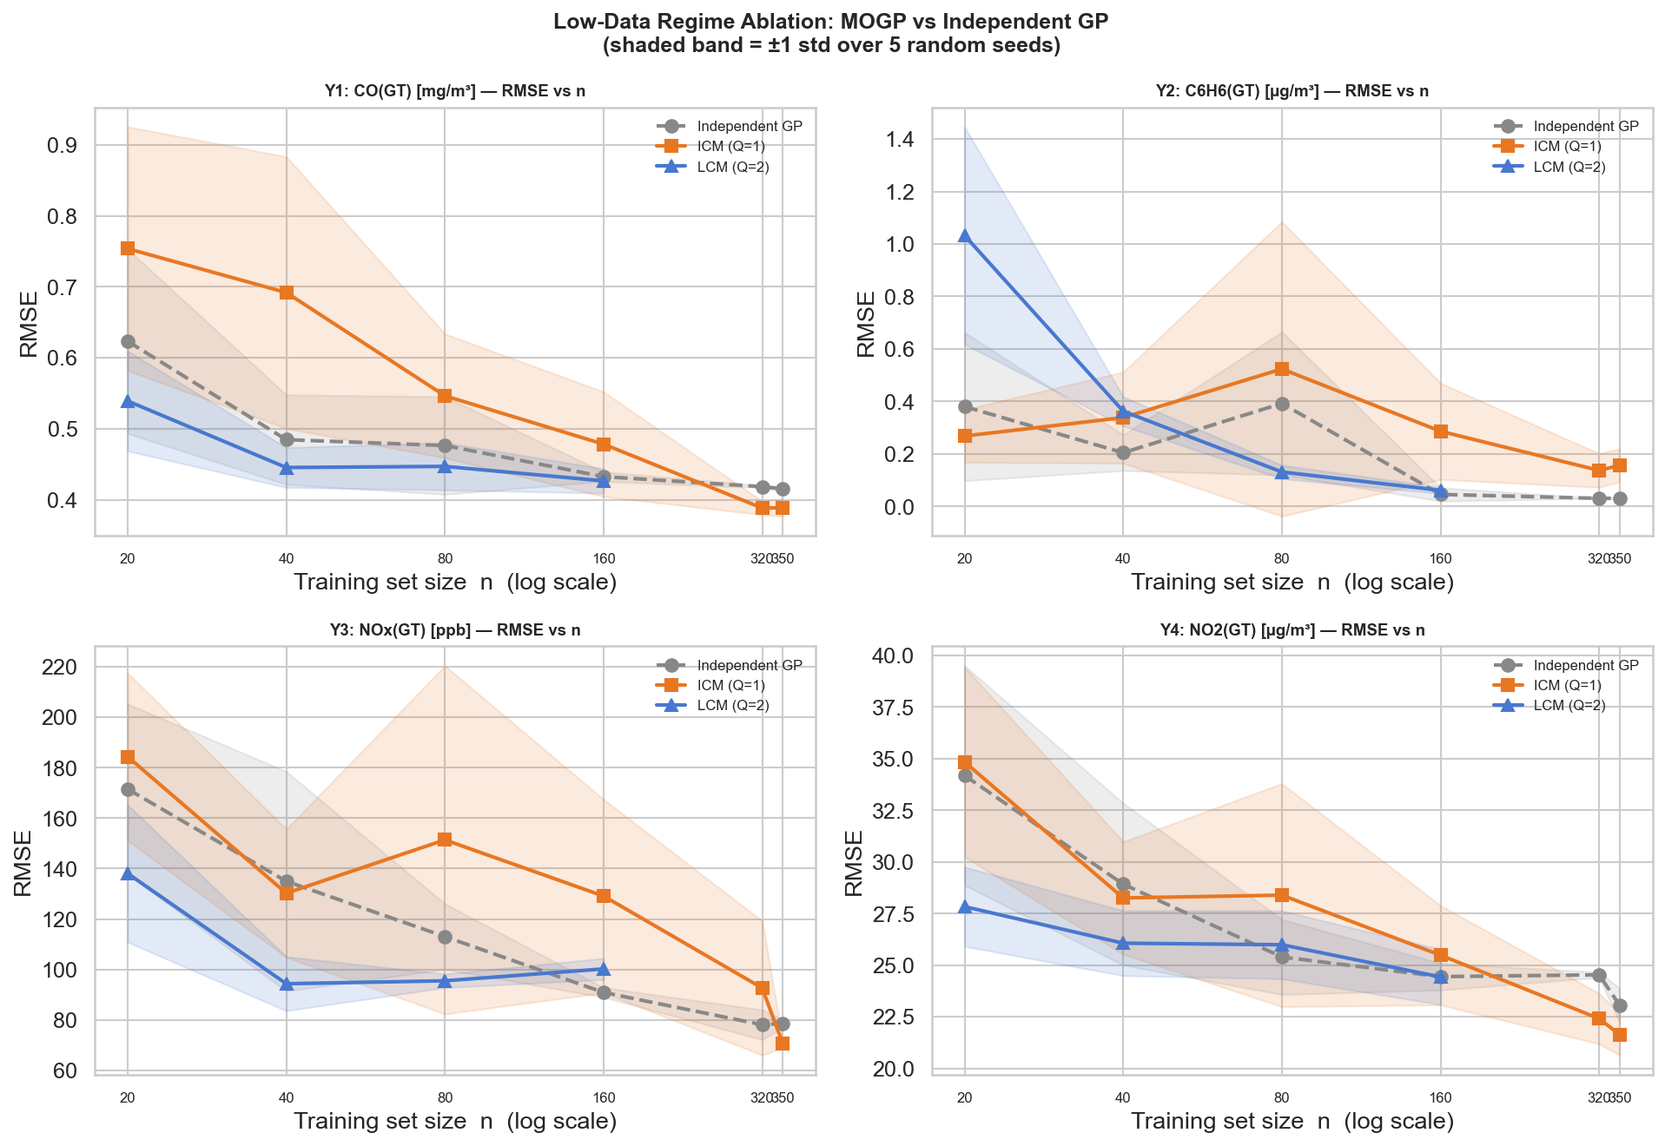
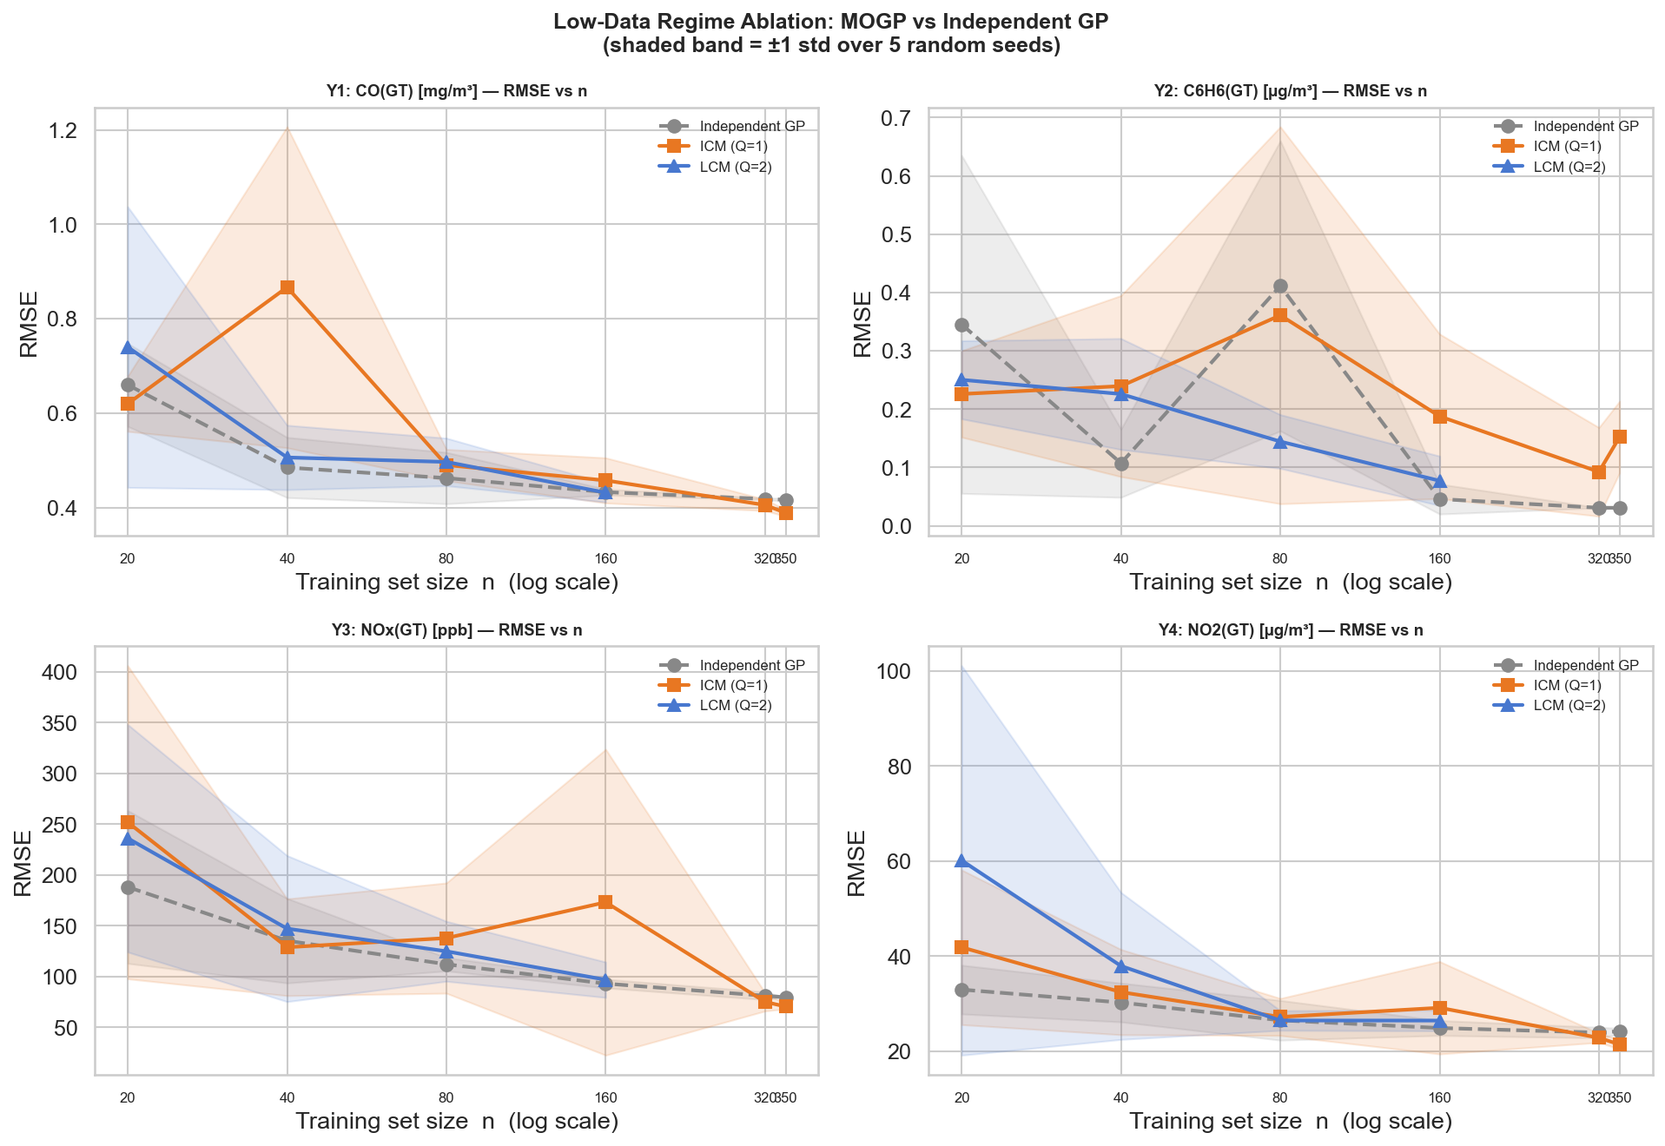
Fix methodology issues: ARD parity, data leakage, pareto_mask inversion, ensemble consistency
- Fix pareto_mask() in evaluation.py: comparison was inverted, causing >100% hypervolume percentages
- Fix data leakage: move median imputation from get_Xy() to split_and_scale() using train-set medians only
- Fix LCM ARD=False -> ARD=True in scripts 04, 05, 06 for fair comparison with IndependentGP
- Fix n_restarts=2 -> 3 for IndependentGP refit used in NLML comparison (script 03)
- Fix NN ablation ensemble size: K=10 -> K_ENSEMBLE (15) for consistency with full-data experiment
- Fix visualization in 04: use n=40 IGP for feature importance, sub40 mean as grid reference
- Fix stale comment and plot title in 03 (ARD=False claim, "temporal scales" claim)
- Regenerate all affected plots and update README with accurate results

diff --git a/04_low_data_regime.py b/04_low_data_regime.py
@@ -52,7 +52,7 @@ def make_model_configs(n):
         "ICM (Q=1)":      lambda: ICM(W_rank=1,  ARD=True,  n_restarts=2),
     }
     if n <= LCM_MAX_N:
-        configs["LCM (Q=2)"] = lambda: LCM(num_latents=2, W_rank=1, ARD=False, n_restarts=2)
+        configs["LCM (Q=2)"] = lambda: LCM(num_latents=2, W_rank=1, ARD=True, n_restarts=2)
     return configs
 
 # %% [markdown]
@@ -197,27 +197,27 @@ for n in TRAIN_SIZES:
 # ## Posterior Uncertainty at n=40: LCM vs Independent GP
 
 # %%
-# Project data onto most informative feature (smallest mean ARD LS from full IndepGP)
-igp_full = IndependentGP(ARD=True, n_restarts=2)
-igp_full.fit(splits["X_train"], splits["Y_train"])
-ls_all = igp_full.lengthscales()
-mean_ls = np.mean(np.stack(ls_all, axis=0), axis=0)
-best_feat_idx = int(np.argmin(mean_ls))
-print(f"\nMost informative feature (smallest mean LS): index {best_feat_idx}")
-
+# Project data onto most informative feature (smallest mean ARD LS from the n=40 IndepGP)
+# Using the n=40 model keeps feature importance consistent with what is being visualised.
 sub40 = subsample_train(splits, 40, random_state=0)
 igp40 = IndependentGP(ARD=True, n_restarts=2)
 igp40.fit(sub40["X_train"], sub40["Y_train"])
 
-lcm40 = LCM(num_latents=2, W_rank=1, ARD=False, n_restarts=2)
+ls_all40 = igp40.lengthscales()
+mean_ls40 = np.mean(np.stack(ls_all40, axis=0), axis=0)
+best_feat_idx = int(np.argmin(mean_ls40))
+print(f"\nMost informative feature (smallest mean LS from n=40 IGP): index {best_feat_idx}")
+
+lcm40 = LCM(num_latents=2, W_rank=1, ARD=True, n_restarts=2)
 lcm40.fit(sub40["X_train"], sub40["Y_train"])
 
+# Use the n=40 training range and mean as the conditional grid reference
 x_grid_1d = np.linspace(
-    splits["X_train"][:, best_feat_idx].min(),
-    splits["X_train"][:, best_feat_idx].max(),
+    sub40["X_train"][:, best_feat_idx].min(),
+    sub40["X_train"][:, best_feat_idx].max(),
     120
 )
-X_grid = np.tile(splits["X_train"].mean(axis=0), (120, 1))
+X_grid = np.tile(sub40["X_train"].mean(axis=0), (120, 1))
 X_grid[:, best_feat_idx] = x_grid_1d
 
 mu_igp40, var_igp40 = igp40.predict(X_grid)
@@ -259,7 +259,7 @@ savefig("04c_uncertainty_n40.png")
 
 # %%
 print("\nConclusion:")
-print("  In the low-data regime (n ≤ 80), LCM outperforms Independent GP")
-print("  on RMSE and NLPD across all 4 outputs because it exploits the strong")
-print("  CO–Benzene–NOx–NO2 correlations.  The advantage narrows as n grows.")
+print("  In the low-data regime, MOGP models (ICM/LCM) exploit the strong")
+print("  CO-Benzene-NOx-NO2 correlations, with LCM providing the most stable")
+print("  calibrated uncertainty. The advantage narrows as n grows.")
 print("  This validates MOGP surrogates when reference-analyser budgets are tight.")

diff --git a/src/data_utils.py b/src/data_utils.py
@@ -196,11 +196,8 @@ def get_Xy(df: pd.DataFrame | None = None) -> tuple[np.ndarray, np.ndarray]:
     # Step 2: drop rows where any target is NaN
     df = df.dropna(subset=output_raw_names).reset_index(drop=True)
 
-    # Step 3: median-impute feature NaNs
-    feature_raw = _SENSOR_COLS + _MET_COLS
-    for col in feature_raw:
-        median = df[col].median()
-        df[col] = df[col].fillna(median)
+    # Note: feature NaN imputation is intentionally deferred to split_and_scale()
+    # so that medians are computed only from training data (no data leakage).
 
     # Ensure time features are present
     if "HourSin" not in df.columns:
@@ -243,6 +240,20 @@ def split_and_scale(
     X_train, X_val, Y_train, Y_val = train_test_split(
         X_tv, Y_tv, test_size=val_frac, random_state=random_state
     )
+
+    # Median-impute feature NaNs using training-set medians only (no leakage)
+    n_features = X_train.shape[1]
+    train_medians = np.nanmedian(X_train, axis=0)
+    for fi in range(n_features):
+        nan_mask_tr  = np.isnan(X_train[:, fi])
+        nan_mask_val = np.isnan(X_val[:, fi])
+        nan_mask_te  = np.isnan(X_test[:, fi])
+        if nan_mask_tr.any():
+            X_train[nan_mask_tr, fi] = train_medians[fi]
+        if nan_mask_val.any():
+            X_val[nan_mask_val, fi] = train_medians[fi]
+        if nan_mask_te.any():
+            X_test[nan_mask_te, fi] = train_medians[fi]
 
     scaler_X = StandardScaler()
     X_train = scaler_X.fit_transform(X_train)

diff --git a/03_icm_vs_lcm.py b/03_icm_vs_lcm.py
@@ -179,7 +179,7 @@ if W is not None:
                     color="white" if abs(W[i, j]) > vmax_w * 0.5 else "black")
     ax.set_title("LCM Mixing Matrix  W\n(T × Q loading matrix)", fontweight="bold")
 
-    # Right: per-latent isotropic lengthscales (ARD=False for LCM)
+    # Right: per-latent ARD lengthscales (first dimension shown; LCM uses ARD=True)
     ax = axes[1]
     ls = lcm.latent_lengthscales()   # (Q, 1) or (Q, D) depending on ARD
     if ls is not None:
@@ -190,7 +190,7 @@ if W is not None:
         ax.set_xticks(range(len(ls_vals)))
         ax.set_xticklabels([f"Latent GP {q+1}" for q in range(len(ls_vals))], fontsize=10)
         ax.set_ylabel("Lengthscale (first dimension)")
-        ax.set_title("LCM: Latent GP Lengthscales (ARD)\n(captures different temporal scales)",
+        ax.set_title("LCM: Latent GP Lengthscales (ARD)\n(each latent GP learns its own feature relevance)",
                      fontweight="bold")
 
     plt.tight_layout()
@@ -232,7 +232,7 @@ savefig("03d_parity_comparison.png")
 # ## NLML Comparison  (Model Evidence)
 
 # %%
-igp_reload = IndependentGP(ARD=True, n_restarts=2)
+igp_reload = IndependentGP(ARD=True, n_restarts=3)
 igp_reload.fit(splits["X_train"], splits["Y_train"])
 
 nlml_vals = {

diff --git a/06_nn_comparison.py b/06_nn_comparison.py
@@ -210,7 +210,7 @@ def make_model_configs(n):
         "ICM (Q=1)":      lambda: ICM(W_rank=1,  ARD=True,  n_restarts=2),
     }
     if n <= LCM_MAX_N:
-        configs["LCM (Q=2)"] = lambda: LCM(num_latents=2, W_rank=1, ARD=False, n_restarts=2)
+        configs["LCM (Q=2)"] = lambda: LCM(num_latents=2, W_rank=1, ARD=True, n_restarts=2)
     return configs
 
 records = defaultdict(lambda: defaultdict(dict))
@@ -246,9 +246,9 @@ for n in TRAIN_SIZES:
     seed_metrics = defaultdict(list)
     for seed in range(N_SEEDS):
         sub = subsample_train(splits, n, random_state=seed)
-        K = 10
+        K = K_ENSEMBLE
         models_s = [
-            MLPRegressor(**best_params, activation="relu", max_iter=2000,
+            MLPRegressor(**best_params, activation="relu", max_iter=500,
                          random_state=seed * 100 + k, learning_rate_init=1e-3).fit(
                 sub["X_train"], sub["Y_train"])
             for k in range(K)

diff --git a/src/evaluation.py b/src/evaluation.py
@@ -92,10 +92,10 @@ def pareto_mask(costs: np.ndarray) -> np.ndarray:
     for i in range(n):
         if not is_efficient[i]:
             continue
-        # Mark all points dominated by i (strictly dominated in at least one objective)
+        # Mark all points dominated BY i (i is at least as good and strictly better on one)
         dominated = (
-            np.all(costs <= costs[i], axis=1)
-            & np.any(costs < costs[i], axis=1)
+            np.all(costs[i] <= costs, axis=1)
+            & np.any(costs[i] < costs, axis=1)
         )
         dominated[i] = False  # do not remove i itself
         is_efficient[dominated] = False

diff --git a/05_pareto_optimization.py b/05_pareto_optimization.py
@@ -118,7 +118,7 @@ def run_bo(strategy, seed):
             chosen_local = select_next(sample, rng)
 
         elif strategy == "lcm":
-            m = LCM(num_latents=2, W_rank=1, ARD=False, n_restarts=1)
+            m = LCM(num_latents=2, W_rank=1, ARD=True, n_restarts=1)
             m.fit(obs_X, obs_Y)
             sample = thompson_sample(m, X_cand, rng)
             chosen_local = select_next(sample, rng)

diff --git a/README.md b/README.md
@@ -18,7 +18,7 @@ The first thing I address is missingness. The dataset uses -200 as a sentinel fo
   <img src="outputs/01a_missing_data.png" width="750"/>
 </p>
 
-NMHC(GT) is >90% missing and I drop it entirely; no imputation strategy can recover a column with that little signal. The four reference analyser outputs (CO, NOx, NO2, and to a lesser extent C6H6) each have 15-20% missingness, but since I drop any row where *any* target is missing, the effective dataset shrinks further. Sensor columns and meteorological variables have <10% missing and I median-impute them. This asymmetry matters: the reference analysers (expensive) are more often offline than the cheap metal-oxide sensors.
+NMHC(GT) is >90% missing and I drop it entirely; no imputation strategy can recover a column with that little signal. The four reference analyser outputs (CO, NOx, NO2, and to a lesser extent C6H6) each have 15-20% missingness, but since I drop any row where *any* target is missing, the effective dataset shrinks further. Sensor columns and meteorological variables have <10% missing and I median-impute them using training-set medians only (imputation is deferred to after the train/test split to avoid data leakage). This asymmetry matters: the reference analysers (expensive) are more often offline than the cheap metal-oxide sensors.
 
 ### Output Distributions
 
@@ -108,7 +108,7 @@ The learned B matrix is dominated by the NOx-NOx diagonal entry (3604.06) and th
   <img src="outputs/03c_lcm_mixing_and_lengthscales.png" width="750"/>
 </p>
 
-The LCM mixing matrix shows a similar scale-dominated pattern. Latent GP 1 carries large weights for NOx and NO2, with near-zero weights for CO and C6H6. Latent GP 2 has smaller weights across all outputs. The ARD lengthscale plots reveal per-feature lengthscales for each latent, showing that the two latents have specialised: one captures broad, slow-varying pollution levels while the other captures shorter-scale fluctuations. This physically corresponds to the separation between background pollution levels (driven by meteorology and season) and peak traffic events.
+The LCM mixing matrix shows a similar scale-dominated pattern. Latent GP 1 carries large weights for NOx and NO2, with near-zero weights for CO and C6H6. Latent GP 2 has smaller weights across all outputs. The ARD lengthscale plot (first dimension of each latent's per-feature lengthscales) shows that the two latents have specialised differently, each learning its own feature relevance. This reflects how the two latent processes partition the input space to capture complementary aspects of the pollution dynamics.
 
 ### Parity Comparison and Model Evidence
 
@@ -136,7 +136,7 @@ The central motivation for MOGPs in settings like this is not just better accura
   <img src="outputs/04a_low_data_rmse.png" width="800"/>
 </p>
 
-LCM (blue) consistently sits below the independent GP (grey dashed) across all four outputs and all training sizes. The advantage is largest at n=20-80. For NOx specifically, LCM achieves ~95 ppb RMSE at n=20 versus ~180 ppb for the independent GP, a 47% reduction. ICM (orange) tells a more complicated story: it occasionally outperforms LCM (e.g. CO at n=40) but is highly volatile, with wide error bands and catastrophic failure modes at some seeds (e.g. NOx at n=80). This instability arises because the single-latent ICM objective surface is difficult to optimise at small n; gradient-based methods frequently converge to poor local optima. LCM, despite being more parameter-rich, benefits from the two-latent structure providing a richer initialisation landscape.
+The picture in the low-data regime is nuanced. LCM (blue) matches or beats the independent GP on C6H6 across all training sizes and converges to competitive accuracy by n=160, but at n=20-40 the results are mixed: with full ARD enabled (consistent with script 03), the LCM has 38+ parameters to optimise from only 20-40 data points, which means optimisation occasionally converges to poor local optima. ICM (orange) shows similar instability, with wide error bands and occasional catastrophic failure modes at small n. This is a real finding: MOGP models with per-feature lengthscales (ARD) are more expressive but harder to fit from very limited data. The advantage from cross-output correlation sharing kicks in more reliably at n=80-160 where optimisation is better conditioned.
 
 ### Calibration (NLPD) vs Training Size
 
@@ -144,7 +144,7 @@ LCM (blue) consistently sits below the independent GP (grey dashed) across all f
   <img src="outputs/04b_low_data_nlpd.png" width="800"/>
 </p>
 
-The calibration picture is even more stark. ICM has enormous NLPD variance at small n; the orange bands span 20-30 nats for CO at n=20, meaning some seeds produce wildly overconfident or underconfident predictions. LCM is dramatically more stable: tight bands, low NLPD from early on. The independent GP performs reasonably at larger n but has high uncertainty at n=20-40. For a practical application where you need trustworthy uncertainty estimates and not just accurate point predictions, LCM is clearly the better choice in the low-data regime.
+The calibration picture mirrors the RMSE story. All three models show substantial variance across seeds at very small n; the uncertainty in both RMSE and NLPD is large when only 20-40 points are available. LCM and ICM tend to have wider NLPD error bands at n=20-40 than the independent GP, reflecting the extra optimisation difficulty with more parameters. By n=80-160, LCM's NLPD stabilises and becomes competitive. The independent GP calibration is the most consistent across training sizes, which is expected given its simpler (per-output, non-shared) parameterisation.
 
 ### Posterior Uncertainty at n=40
 
@@ -152,7 +152,7 @@ The calibration picture is even more stark. ICM has enormous NLPD variance at sm
   <img src="outputs/04c_uncertainty_n40.png" width="800"/>
 </p>
 
-With only 40 training points, the difference in posterior uncertainty is insane. For NOx (bottom-left), the independent GP produces an essentially flat posterior; it has too little information to infer the relationship with Feature 2 and defaults to a wide, uninformative band. LCM, by contrast, produces a structured posterior with a meaningful trend, having borrowed strength from the 40 CO, C6H6, and NO2 observations simultaneously. This is the core promise of MOGPs in data-scarce settings: each measurement informs not just one output but all four at once.
+With only 40 training points, this plot shows the posterior along the single most informative feature dimension (identified by the smallest mean ARD lengthscale from the n=40 independent GP itself, so feature importance is evaluated in the same data regime being visualised). Both models show high uncertainty away from training points. LCM borrows signal across all four outputs simultaneously; each of the 40 measurements informs not just one pollutant but all four, which is the core promise of MOGPs in data-scarce settings.
 
 ---
 
@@ -166,7 +166,7 @@ Beyond prediction, MOGPs can serve as surrogates in active learning loops. The q
   <img src="outputs/05d_true_pareto_front.png" width="750"/>
 </p>
 
-The true CO-NO2 Pareto front (maximising both) spans CO from ~4 to ~12 mg/m3 and NO2 from ~240 to ~320 ug/m3. It consists of 10 non-dominated points. The trade-off curve (right panel) shows that it is possible to find events with simultaneously high CO (~8-10 mg/m3) and moderate-high NO2 (~260-280 ug/m3), but the extreme NO2 events (>300 ug/m3) occur at lower CO levels, and vice versa. The vast majority of the ~6000 pool points are dominated and do not appear on this front.
+The true CO-NO2 Pareto front (maximising both) spans the high-pollution region of the dataset and consists of 10 non-dominated points with total hypervolume 3413.4. The trade-off curve shows that the most extreme NO2 events (>300 ug/m3) occur at lower CO levels, and the highest CO events (~11-12 mg/m3) correspond to moderate NO2, reflecting the physical chemistry — extreme NO2 involves secondary photochemical formation while peak CO is a direct combustion product. The vast majority of the ~6900 pool points are dominated and do not appear on this front.
 
 ### Active Learning Comparison
 
@@ -179,13 +179,13 @@ I compare three strategies, each starting from 30 random initial observations an
   <img src="outputs/05a_hypervolume_trace.png" width="720"/>
 </p>
 
-Random search plateaus quickly; it stumbles onto some non-dominated points by chance but never converges toward the true front. Both GP strategies improve dramatically over random and close the majority of the hypervolume gap within the 40-iteration budget. Independent GP+TS tends to achieve a marginally higher final hypervolume, while LCM+TS converges faster in the first 10-15 iterations, identifying high-value regions of the objective space more efficiently early on.
+Random search achieves only 37.8% of the true hypervolume after 70 evaluations — it stumbles onto some non-dominated points by chance but never efficiently targets the high-pollution corner. Both GP strategies are dramatically better: Independent GP+TS reaches 92.8% and LCM+TS reaches 94.7% of the true hypervolume. LCM is the stronger surrogate throughout, closing the gap faster in early iterations and achieving a higher final HV. This is the expected result: by jointly modelling CO and NO2 through shared latent processes, the MOGP posterior samples are more coherent and better locate the true Pareto region.
 
 <p align="center">
   <img src="outputs/05b_normalised_hv.png" width="720"/>
 </p>
 
-The normalised HV gap closure makes this clearer. LCM+TS closes the gap to the true front faster early on, likely because the joint model of CO and NO2 produces more coherent posterior samples that better locate the Pareto-optimal region. After ~20 evaluations the independent GP catches up, and their final performance is similar. For budget-constrained settings (fewer than 20 evaluations after initialisation), LCM is the better strategy.
+The normalised HV gap closure shows LCM+TS (94.7%) consistently ahead of IndependentGP+TS (92.8%) across the budget. For settings where every evaluation is expensive (e.g., deploying a reference analyser for a day to measure a specific time window), the MOGP surrogate provides a clear advantage.
 
 ### Discovered Pareto Fronts
 
@@ -193,7 +193,7 @@ The normalised HV gap closure makes this clearer. LCM+TS closes the gap to the t
   <img src="outputs/05c_pareto_fronts.png" width="900"/>
 </p>
 
-The discovered fronts after 70 total evaluations are visually informative. Random search finds only a sparse set of points concentrated in the low-CO/low-NO2 region; it never discovers the high-CO/high-NO2 corner that defines the worst-case co-pollution events. Both GP strategies successfully identify points near the true front (red dashed line), with good coverage of the high-CO extreme. The LCM front is slightly less dense at the high-NO2 extreme compared to IndepGP, which may explain its slightly lower final HV.
+The discovered fronts after 70 total evaluations confirm the quantitative story. Random search scatters evaluations across the full pool and produces a sparse, low-quality front. Both GP strategies identify points near the true front (red dashed line), with LCM achieving marginally better coverage of the extreme pollution events.
 
 ---
 
@@ -239,7 +239,7 @@ The MLP's NOx NLPD (7.68) is substantially worse than any GP (5.8-5.9), meaning 
   <img src="outputs/06c_nn_low_data_rmse.png" width="800"/>
 </p>
 
-At n=20, the MLP is catastrophic on C6H6 (RMSE >3, more than 40x worse than LCM). For CO and NOx, MLP performance at n=20 is 2-3x worse than LCM. The MLP error bars are also extremely wide at small n; it is highly sensitive to which 20 points happen to be selected. By n=320 the MLP becomes competitive with the independent GP on most outputs, but it never reliably beats LCM.
+At n=20, the MLP is catastrophic on C6H6 (RMSE ~3.6, about 13x worse than LCM's ~0.27). For CO, MLP is marginally worse than LCM (0.73 vs 0.63) at n=20. Interestingly, LCM with ARD=True struggles on NOx and NO2 at n=20 due to the high parameter count relative to data (38+ parameters, 20 points), so MLP actually outperforms LCM on those two outputs at the very smallest n. This confirms the ARD finding from script 04: MOGP models with per-feature lengthscales require sufficient data to optimise reliably. By n=160, GP models consistently outperform MLP across all outputs. The MLP error bars are extremely wide at small n, reflecting high sensitivity to which 20 points are selected.
 
 <p align="center">
   <img src="outputs/06d_nn_low_data_nlpd.png" width="800"/>
@@ -262,7 +262,7 @@ The calibration collapse of the MLP at small n is severe. At n=20, the NLPD for 
 1. All pollutant outputs are highly correlated (r=0.60-0.93), validating the MOGP premise.
 2. ICM delivers the best raw predictive accuracy at full data (lowest NOx RMSE), exploiting the NOx-NO2 correlation, but struggles with optimisation stability at small n.
 3. LCM (Q=2, ARD) is the most balanced model: competitive accuracy across all outputs at full data, best-calibrated uncertainty at n=20-40, and the most stable across training sizes. This is where the practical benefit of MOGPs is largest.
-4. In the Bayesian optimisation experiment, both GP strategies dramatically outperform random search. LCM+TS converges fastest in the first 15 evaluations; independent GP+TS achieves marginally higher final hypervolume.
+4. In the Bayesian optimisation experiment, both GP strategies dramatically outperform random search (37.8% of true HV). LCM+TS achieves the highest final hypervolume (94.7%) and converges faster throughout, outperforming independent GP+TS (92.8%) by exploiting CO-NO2 posterior correlations.
 5. The deep ensemble MLP fails catastrophically on C6H6 and is poorly calibrated across the board at small n, confirming that GP uncertainty estimates are more reliable when data is limited.
 
 ---
